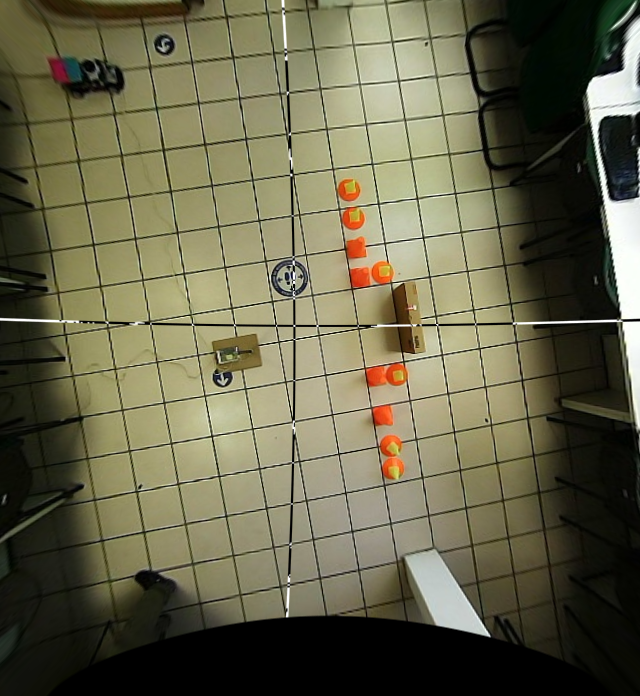
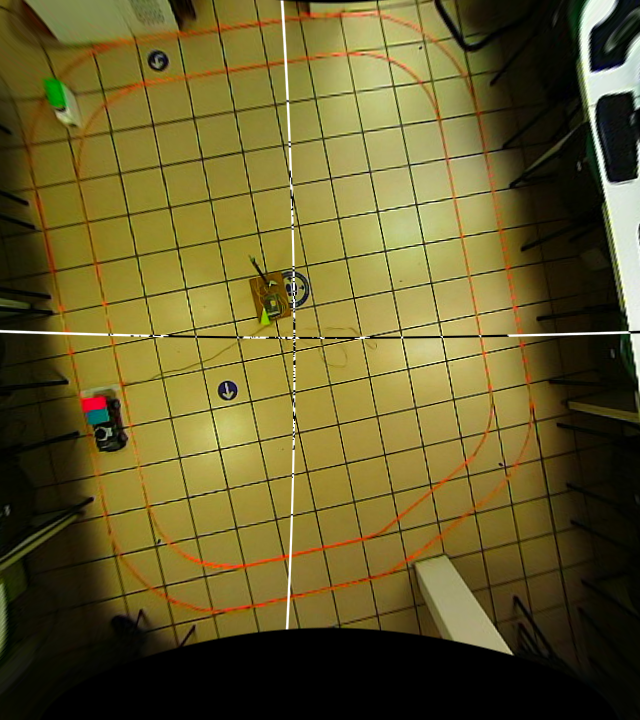
:checkered_flag::red_car: :movie_camera:

diff --git a/autominy_ws/src/gps_vis/scripts/GPS_pose.py b/autominy_ws/src/gps_vis/scripts/GPS_pose.py
@@ -10,18 +10,21 @@ pose_msg = Pose2D()
 cap = cv2.VideoCapture(2) #1
 cap.set(3,640)	# Resolution y
 cap.set(4,480)	# Resolution x
+cap.set(cv2.CAP_PROP_SATURATION,0.75)	# Saturacion
 cap.set(cv2.CAP_PROP_FPS,30)	# FPS
 
-H = np.array([[6.91246827e-01,-1.30542721e-01,5.281514],[4.74494068e-02,5.83532054e-01,-5.80606686],[-2.17200977e-04,-3.64501231e-05,1.0]])
+H = np.array([[6.28530165e-01,-1.42690786e-01,1.65155265e+01],[8.31575514e-02,6.52108334e-01,-2.33679543e+01],[-1.83836281e-04,-4.41862005e-05,1.0]])
 K = np.array([[319.71415651,0.0,344.96615854], [0.0,317.26216773,261.53024149], [0.0,0.0,1.0]])
 dist_coef = np.array([[-0.3466721 ,  0.14940472, -0.00101803,  0.00506543, -0.03453036]])
 # Cian
-lower_1 = np.array([80,125,80])
-upper_1 = np.array([110,255,255])
+lower_1 = np.array([80,160,50])
+upper_1 = np.array([130,255,255])
 # Magenta
-lower_2 = np.array([140,150,100])
+lower_2 = np.array([150,100,60])
 upper_2 = np.array([179,255,255])
-path = '/home/sherlock1804/Autominy_REAL/autominy_ws/src/dotmex_final/ads/'
+
+Ker = 1
+path = '/home/sherlock1804/Autominy_REAL/autominy_ws/src/gps_vis/scripts/'
 
 #**********************************************************************************
 #**********************************************************************************
@@ -31,14 +34,14 @@ def video_cap():
 	_,imagen0 = cap.read()	
 	h,w = imagen0.shape[:2]
 	w = int(w*1.0)
-	h = int(h*1.45)
+	h = int(h*1.5)
 	mapx,mapy = cv2.initUndistortRectifyMap(K,dist_coef,None,None,(w,h),5)
 	imagenF = cv2.remap(imagen0,mapx,mapy,cv2.INTER_LINEAR)
-	imagenF = cv2.warpPerspective(imagenF, H, (370,395),borderMode=cv2.BORDER_CONSTANT, borderValue=(0, 0, 0)) 
+	imagenF = cv2.warpPerspective(imagenF, H, (375,430),borderMode=cv2.BORDER_CONSTANT, borderValue=(0, 0, 0)) 
 	imagenF_1 = cv2.inRange(cv2.cvtColor(imagenF,cv2.COLOR_BGR2HSV),lower_1,upper_1) 
 	imagenF_2 = cv2.inRange(cv2.cvtColor(imagenF,cv2.COLOR_BGR2HSV),lower_2,upper_2) 
-	imagenF_1 = cv2.medianBlur(imagenF_1,1)
-	imagenF_2 = cv2.medianBlur(imagenF_2,1)
+	imagenF_1 = cv2.medianBlur(imagenF_1,2*Ker+1)
+	imagenF_2 = cv2.medianBlur(imagenF_2,2*Ker+1)
 	
 	# Calculo de la posicion
 	M_1 = cv2.moments(imagenF_1)
@@ -53,28 +56,28 @@ def video_cap():
 		t = time.time()
 		pose_msg.x = cX_2
 		pose_msg.y = cY_2
-		pose_msg.theta = np.arctan2(cY_1-cY_2,cX_1-cX_2)*(np.pi/180.0)
+		pose_msg.theta = np.arctan2(cY_1-cY_2,cX_1-cX_2) # En radianes
 		GPS_pub.publish(pose_msg)
 	else:
 		cX_1 = 0
 		cY_1 = 0
 		cX_2 = 0
 		cY_2 = 0
-	"""
+
 	# Guarda los datos
 	t = time.time()
-	f = open(path+'pose15.csv','a+')
+	f = open(path+'pose_275_06.csv','a+')
 	f.write("%5.6f	%5.6f	%5.6f	%5.6f\n" %(t, pose_msg.x, pose_msg.y, pose_msg.theta))
 	f.close()
-		
 	"""
+
  	#Visualizacion
 	imagenF = cv2.circle(imagenF, (cX_1,cY_1), 3, (255,0,255),-1)
 	imagenF = cv2.circle(imagenF, (cX_2,cY_2), 3, (255,0,0),-1)
 	cv2.imshow('homografia',imagenF)	
 	#cv2.moveWindow("homografia", 400,20)
 	cv2.waitKey(1)
-
+	"""
 #**********************************************************************************
 #**********************************************************************************
 #**********************************************************************************

diff --git a/autominy_ws/src/dotmex_final/camera/camera_ELP.py b/autominy_ws/src/dotmex_final/camera/camera_ELP.py
@@ -1,0 +1,49 @@
+#!/usr/bin/env python
+import rospy
+import numpy as np
+import cv2
+from cv_bridge import CvBridge
+from sensor_msgs.msg import Image, CompressedImage
+
+#***************************IMPORTANTE**********************
+# Algunas veces hay que verificar si la camara tiene permisos
+# v4l2-ctl --list-devices	# Verifica si la camara tiene permisos
+# sudo chmod 777 /dev/video0	# Le da permisos a la camara
+#***********************************************************
+
+bridge = CvBridge()
+#***************************** RGB *************************
+cap_rgb = cv2.VideoCapture(0)
+cap_rgb.set(3,1920)	# Resolution y
+cap_rgb.set(4,1080)	# Resolution x
+cap_rgb.set(cv2.CAP_PROP_FPS,30)	# FPS
+
+RGBc_msg = CompressedImage()
+RGBc_msg.format = "jpeg"
+#======================================================
+#					VIDEO CAPTURE
+#======================================================
+def video_cap():
+	#***************************** RGB *************************
+	_,imagen0 = cap_rgb.read()
+	if imagen0 is not None:
+		imagen0 = cv2.resize(imagen0,(960,540),cv2.INTER_LINEAR)
+		#imagen0 = cv2.cvtColor(imagen0,cv2.COLOR_BGR2RGB)
+		RGB_msg = bridge.cv2_to_imgmsg(imagen0,'bgr8')
+		RGBc_msg.data = np.array(cv2.imencode('.jpg', imagen0)[1]).tostring()
+		RGB_pub.publish(RGB_msg)			#Publica el mensaje de imagen en Image_topic
+		RGBc_pub.publish(RGBc_msg)			#Publica el mensaje de imagen en Image_topic
+	else: print('La camara no tiene permisos !!!')
+#====================================================================
+#						PRINCIPAL
+#====================================================================
+if __name__ == '__main__':
+    try:
+			print('*** Nodo inicializado ***')
+			rospy.init_node('cameraELP_pub', anonymous=False)				# Nombre del nodo
+			RGB_pub = rospy.Publisher('/sensors/camera/color/image_raw', Image, queue_size=15)
+			RGBc_pub = rospy.Publisher('/sensors/camera/color/image_raw/compressed', CompressedImage, queue_size=10)
+			while not rospy.is_shutdown():			# Ejecuta el bucle mientras no se presiona ctrl+C
+				video_cap()
+    except rospy.ROSInterruptException:
+        pass

diff --git a/autominy_ws/src/gps_vis/scripts/Calibration/Homography/Homography.py b/autominy_ws/src/gps_vis/scripts/Calibration/Homography/Homography.py
@@ -5,23 +5,23 @@ import matplotlib.image as mpimg
 from matplotlib import pyplot as plt
 from numpy.linalg import inv
 
-n = 1
+n = 0
 imagenK = cv2.imread('Undist_0'+str(n)+'.png',1) # Origen (Imagen del suelo)
 #**************************************************
 #**************************************************
 # Se definen 4 puntos en la imagen de origen. Las unidades son px.
-p1_1 = [46,57]
-p1_2 = [436,21]	
-p1_3 = [499,428]
-p1_4 = [128,499]
+p1_1 = [42,79]
+p1_2 = [431,26]	
+p1_3 = [515,472]
+p1_4 = [148,555]
 P1 = np.concatenate(([[p1_1],[p1_2],[p1_3],[p1_4]]),axis=0)
 # Se seleccionan 4 puntos en la imagen de destino, se escriben en cm y se usa como referencial 
 # al vector de traslacion T. Este se varia segun convenga a la imagen de salida; 
-T = [30,30]
+T = [32,32]
 p2_1 = np.add([0.0,0.0],T)
-p2_2 = np.add([306.0,0.0],T)			
-p2_3 = np.add([306.0,275.5],T) 
-p2_4 = np.add([0.0,275.5],T)
+p2_2 = np.add([276.5,0.0],T)			#338x276.5
+p2_3 = np.add([276.5,338.0],T) 
+p2_4 = np.add([0.0,338.0],T)
 P2 = np.array([p2_1,p2_2,p2_3,p2_4])
 H, mask = cv2.findHomography(P1, P2, cv2.RANSAC,5.0) 
 #**************************************************
@@ -31,7 +31,7 @@ print "****************"
 print "Matriz de Homografia"
 print H # Matriz de homografia
 #Obtenemos la imagen con correccion de pespectiva
-imagenH = cv2.warpPerspective(imagenK, H, (370,395),borderMode=cv2.BORDER_CONSTANT, borderValue=(125, 125, 125)) 		
+imagenH = cv2.warpPerspective(imagenK, H, (375,430),borderMode=cv2.BORDER_CONSTANT, borderValue=(0, 0, 0)) 		
 cv2.imwrite('Homography0'+str(n)+'.png',imagenH)
 imagenH = cv2.cvtColor(imagenH, cv2.COLOR_BGR2RGB)	
 plt.imshow(imagenH, 'gray'), plt.show()

diff --git a/autominy_ws/src/gps_vis/scripts/pose_plot.py b/autominy_ws/src/gps_vis/scripts/pose_plot.py
@@ -3,7 +3,7 @@ import numpy as np
 import matplotlib.pyplot as plt
 from mpl_toolkits.mplot3d import Axes3D
 
-path = '/home/sherlock/dotMEX_Autominy_REAL/autominy_ws/src/gps_vis/scripts/'
+path = '/home/sherlock1804/Autominy_REAL/autominy_ws/src/gps_vis/scripts/'
 #**************************************************************************************************
 #**************************************************************************************************
 #**************************************************************************************************
@@ -17,12 +17,12 @@ def gen_vec(file_csv):
 		for ROWS in ploting:
 			T.append(float(ROWS[0]))
 			X.append(float(ROWS[1]))
-			Y.append(float(ROWS[2]))
+			Y.append(375-float(ROWS[2]))
 	return np.array(T),np.array(X),np.array(Y)
 #**************************************************************************************************
 #**************************************************************************************************
 #**************************************************************************************************
-file_gps_vis = 'position_v300.csv'
+file_gps_vis = 'pose_275_06.csv'
 T,X,Y= gen_vec(file_gps_vis)
 plt.plot(X,Y,marker='.')
 plt.title('Pose 2D')

diff --git a/autominy_ws/src/gps_vis/scripts/Calibration/Homography/Undist.py b/autominy_ws/src/gps_vis/scripts/Calibration/Homography/Undist.py
@@ -1,8 +1,8 @@
 import numpy as np
 import cv2
 
-n = 4
-imagen0 = cv2.imread('0'+str(n)+'image.png',1) # Origen (Imagen del suelo)
+n = 0
+imagen0 = cv2.imread('0'+str(n)+'.png',1) # Origen (Imagen del suelo)
 #**************************************************
 #**************************************************
 #**************************************************
@@ -10,7 +10,7 @@ K = np.array([[319.71415651,0.0,344.96615854],[0.0,317.26216773,261.53024149],[0
 dist_coef = np.array([[-0.3466721,0.14940472,-0.00101803,0.00506543,-0.03453036]])
 h,w = imagen0.shape[:2]
 w = int(w*1.0)
-h = int(h*1.45)
+h = int(h*1.5)
 mapx,mapy = cv2.initUndistortRectifyMap(K,dist_coef,None,None,(w,h),5)
 imagenK = cv2.remap(imagen0,mapx,mapy,cv2.INTER_LINEAR)
 cv2.imwrite('Undist_0'+str(n)+'.png',imagenK)

diff --git a/autominy_ws/src/gps_vis/scripts/video_writer.py b/autominy_ws/src/gps_vis/scripts/video_writer.py
@@ -7,7 +7,8 @@ video = cv2.VideoCapture(2)
 
 video.set(3,640)	# Resolution y
 video.set(4,480)	# Resolution x
-#video.set(cv2.CAP_PROP_FPS,30)	# FPS   
+video.set(cv2.CAP_PROP_SATURATION,0.75)	# Saturacion
+video.set(cv2.CAP_PROP_FPS,30)	# FPS  
 
 
 # We need to check if camera 
